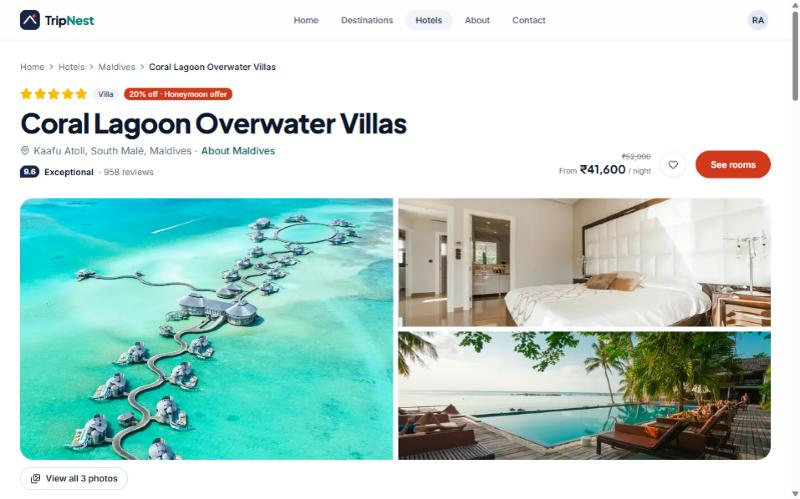
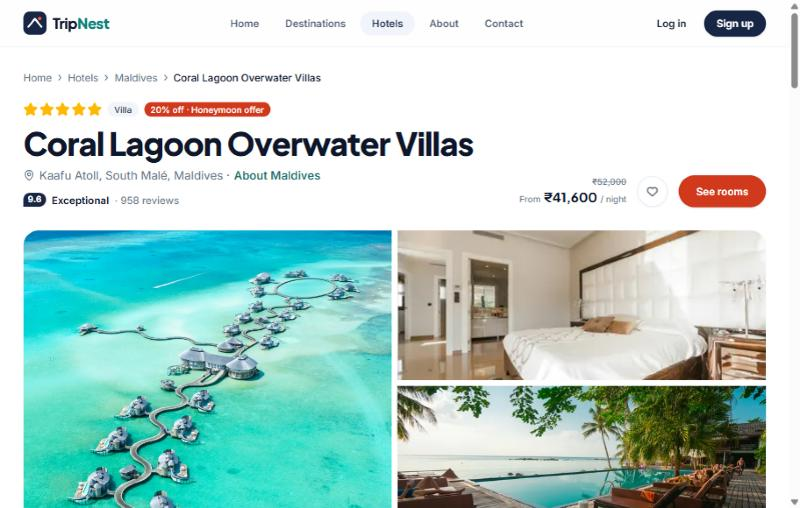
docs: refresh README (pages, payments, slideshow, tests, Lighthouse) and screenshots

diff --git a/README.md b/README.md
@@ -1,25 +1,32 @@
 # TripNest — Travel Booking Platform
 
-A full-stack hotel booking platform built as a portfolio project: search and compare hotels, choose a room, complete a
-**demo** booking, manage your trips, and run the whole thing from an admin dashboard.
+A full-stack hotel booking platform built as a portfolio project: search and compare hotels, choose a room, pay in
+**Razorpay test mode**, manage your trips, and run the whole thing from an admin dashboard.
 
-**Live demo:** <https://tripnest-travel-booking-platform.vercel.app>
+**Live demo:** <https://tripnest-travel-booking-platform.vercel.app> ·
+**Source:** <https://github.com/rojanaugustine999/tripnest-travel-booking-platform>
 
-> **Demo project.** All hotels, prices and reviews are fictional sample data, and bookings are demonstrations only.
-> **No real money is taken and no real hotel is contacted** (optional Razorpay _test-mode_ payments are described in
+> **Demo project.** All hotels, prices and reviews are fictional sample data. **No real money is ever taken and no real
+> hotel is contacted.** Payments use Razorpay's _test mode_ only (the app refuses live keys; see
 > [docs/PAYMENTS.md](docs/PAYMENTS.md)). Photos are from Unsplash.
 
-|                                                        |                                                   |
-| ------------------------------------------------------ | ------------------------------------------------- |
-| ![Home page](docs/screenshots/home.jpg)                | ![Hotel search](docs/screenshots/hotels.jpg)      |
-| ![Hotel details](docs/screenshots/hotel-details.jpg)   | ![User dashboard](docs/screenshots/dashboard.jpg) |
-| ![Admin overview](docs/screenshots/admin-overview.jpg) |                                                   |
+|                                                                 |                                                                  |
+| --------------------------------------------------------------- | ---------------------------------------------------------------- |
+| ![Home page with the hero slideshow](docs/screenshots/home.jpg) | ![Special offers section](docs/screenshots/home-offers.jpg)      |
+| ![Hotel search with filters](docs/screenshots/hotels.jpg)       | ![Hotel details and gallery](docs/screenshots/hotel-details.jpg) |
+| ![User dashboard](docs/screenshots/dashboard.jpg)               | ![Admin overview](docs/screenshots/admin-overview.jpg)           |
+
+<p align="center">
+  <img src="docs/screenshots/home-mobile.jpg" alt="Home page on a phone" width="260" /><br />
+  <sub>Responsive: the same pages on a 390 px phone screen.</sub>
+</p>
 
 ## Objectives
 
-- Build a realistic, production-style booking platform end to end: public site, accounts, bookings and administration.
-- Keep it **secure by design**: Row Level Security on every table, server-side validation and authorization, no secrets
-  in the browser.
+- Build a realistic, production-style booking platform end to end: public site, accounts, bookings, payments and
+  administration.
+- Keep it **secure by design**: Row Level Security on every table, server-side validation and authorization, payment
+  signatures verified inside the database, no secrets in the browser.
 - Practise professional habits: typed code, small features, tests for the risky parts, documentation, a phase-by-phase
   history (see [docs/ROADMAP.md](docs/ROADMAP.md)).
 
@@ -27,37 +34,53 @@ A full-stack hotel booking platform built as a portfolio project: search and com
 
 **Visitors**
 
+- A landing page with an **auto-playing hero slideshow** (previous / next, dots, pause; respects "reduce motion"),
+  one-click popular destinations, a trust strip, featured hotels, special offers, testimonials and a newsletter form.
 - Destinations and hotels with search (accent-insensitive), filters (price, stars, rating, type, amenities,
   availability), sorting and pagination — all computed in one SQL function.
 - Hotel pages with gallery, amenities, policies, reviews, room comparison and live availability for chosen dates.
+- Social preview image, favicon and Apple touch icon, so shared links look right.
 
 **Signed-in users**
 
 - Registration, login, password reset (Supabase Auth), profile and password change.
 - Save hotels (no duplicates), view and remove them.
-- Demo booking: guest details → review → confirm → confirmation with a reference. The price is calculated **on the
+- Booking: guest details → review → confirm → pay → confirmation with a reference. The price is calculated **on the
   server**, availability is checked under a database lock (no overbooking), and a repeated submission cannot create
   two bookings.
-- Optional **Razorpay test-mode payment**: the booking is held for 15 minutes and confirmed only after the payment's
-  signature is verified **inside the database** (see [docs/PAYMENTS.md](docs/PAYMENTS.md)). Off by default.
-- My bookings with details, price snapshot and cancellation of future bookings.
+- **Razorpay test-mode payments** (optional, off until configured): the booking is held for 15 minutes and confirmed
+  only after the payment's signatures are verified **inside the database**. Unpaid bookings expire and release the
+  room. A "Pay now" button and a receipt are shown on the booking pages.
+- My bookings with details, price snapshot, payment receipt and cancellation of future bookings.
 
 **Administrators**
 
 - Overview with statistics and charts (demo revenue is clearly labelled).
 - Hotels (add, edit, publish, archive, images, amenities), rooms (prices, occupancy, availability), bookings
-  (filters, permitted status changes) and users (role changes, never your own).
+  (filters, permitted status changes, payment status) and users (role changes, never your own).
+
+## Pages
+
+| Area    | Pages                                                                                                      | Who can open them                   |
+| ------- | ---------------------------------------------------------------------------------------------------------- | ----------------------------------- |
+| Public  | `/` home · `/destinations` · `/destinations/[slug]` · `/hotels` · `/hotels/[slug]` · `/about` · `/contact` | Everyone                            |
+| Account | `/login` · `/register` · `/forgot-password` · `/reset-password`                                            | Everyone                            |
+| Guest   | `/dashboard` · `/bookings` · `/bookings/[reference]` · `/saved-hotels` · `/profile`                        | Signed-in users                     |
+| Booking | `/booking` (guest details, review, pay) · `/confirmation/[reference]`                                      | Signed-in users                     |
+| Admin   | `/admin` · `/admin/hotels` (+ new, edit, rooms) · `/admin/bookings` (+ details) · `/admin/users`           | Admins only (404 for everyone else) |
 
 ## Technology stack
 
-| Area       | Technology                                                                                  |
-| ---------- | ------------------------------------------------------------------------------------------- |
-| Framework  | Next.js 16 (App Router, Cache Components, Server Actions, `proxy.ts`), React 19, TypeScript |
-| Styling/UI | Tailwind CSS 4, shadcn/ui on Radix, Lucide icons, Recharts (admin charts)                   |
-| Forms      | React Hook Form + Zod (validated in the browser **and** again on the server)                |
-| Backend    | Supabase: PostgreSQL, Auth, Row Level Security, SQL functions (`@supabase/ssr`)             |
-| Tooling    | ESLint, Prettier, `tsx` scripts for security/logic checks                                   |
-| Hosting    | Vercel (see [docs/DEPLOYMENT.md](docs/DEPLOYMENT.md))                                       |
+| Area       | Technology                                                                                             |
+| ---------- | ------------------------------------------------------------------------------------------------------ |
+| Framework  | Next.js 16 (App Router, Cache Components, Server Actions, `proxy.ts`, `next/og`), React 19, TypeScript |
+| Styling/UI | Tailwind CSS 4, shadcn/ui on Radix, Lucide icons, Recharts (admin charts)                              |
+| Forms      | React Hook Form + Zod (validated in the browser **and** again on the server)                           |
+| Backend    | Supabase: PostgreSQL, Auth, Row Level Security, SQL functions (`@supabase/ssr`)                        |
+| Payments   | Razorpay Standard Checkout in **test mode**; HMAC-SHA256 signatures checked in Postgres (`pgcrypto`)   |
+| Testing    | Vitest unit tests, `tsx` scripts for logic and live-database security probes, Lighthouse               |
+| Tooling    | ESLint, Prettier                                                                                       |
+| Hosting    | Vercel (see [docs/DEPLOYMENT.md](docs/DEPLOYMENT.md))                                                  |
 
 ## Getting started
 
@@ -75,14 +98,24 @@ cp .env.example .env.local
 Follow [docs/SUPABASE_SETUP.md](docs/SUPABASE_SETUP.md). In short:
 
 1. Create a new Supabase project (leave "automatically expose new tables" **off**).
-2. Run the SQL files in `supabase/migrations/` **in order**, then `supabase/seed.sql` (sample data), using either the
-   Supabase CLI (`npm run db:push`) or the dashboard SQL Editor.
+2. Run the SQL files in `supabase/migrations/` **in order** (8 files, the last one adds payments), then
+   `supabase/seed.sql` (sample data), using either the Supabase CLI (`npm run db:push`) or the dashboard SQL Editor.
 3. Put the **Project URL** and **publishable key** in `.env.local`. Never use the secret key in the browser and never
    commit `.env.local`.
 4. Under Authentication → URL Configuration set the Site URL to `http://localhost:3000` and add
    `http://localhost:3000/**` as a redirect URL.
 
-### 2. Run it
+### 2. Environment variables
+
+| Variable                                                 | Needed?  | Purpose                                                                                      |
+| -------------------------------------------------------- | -------- | -------------------------------------------------------------------------------------------- |
+| `NEXT_PUBLIC_SUPABASE_URL`                               | Yes      | Your Supabase project URL                                                                    |
+| `NEXT_PUBLIC_SUPABASE_PUBLISHABLE_KEY`                   | Yes      | Supabase publishable key (safe in the browser; access is limited by RLS)                     |
+| `NEXT_PUBLIC_SITE_URL`                                   | Yes      | The site's own address, used for metadata and auth email links                               |
+| `RAZORPAY_KEY_ID`, `RAZORPAY_KEY_SECRET`                 | Optional | Razorpay **test** keys (`rzp_test_…`). Server only. Without them, bookings confirm instantly |
+| `NEXT_PUBLIC_CONTACT_EMAIL`, `NEXT_PUBLIC_CONTACT_PHONE` | Optional | Real contact details for the footer and contact page; hidden when empty                      |
+
+### 3. Run it
 
 ```bash
 npm run dev      # http://localhost:3000
@@ -95,6 +128,8 @@ granted from the website):
 update public.profiles set role = 'admin' where email = 'your-email@example.com';
 ```
 
+To try payments, follow [docs/PAYMENTS.md](docs/PAYMENTS.md) (about 15 minutes) and pay with Razorpay's test card.
+
 ## Scripts and testing
 
 | Script                     | Purpose                                                                         |
@@ -105,7 +140,7 @@ update public.profiles set role = 'admin' where email = 'your-email@example.com'
 | `npm run lint`             | ESLint                                                                          |
 | `npm run typecheck`        | TypeScript type-check                                                           |
 | `npm run format`           | Format with Prettier                                                            |
-| `npm test`                 | Vitest unit tests (redirect guard, prices, validators)                          |
+| `npm test`                 | Vitest unit tests (redirect guard, prices, validators, payment signatures)      |
 | `npm run test:logic`       | Check validators, price maths and the redirect guard with hostile input         |
 | `npm run db:check`         | Test the live Supabase project as a signed-out visitor (reads `.env.local`)     |
 | `npm run db:security`      | Probe the live database like an attacker (reads, writes, functions)             |
@@ -113,18 +148,28 @@ update public.profiles set role = 'admin' where email = 'your-email@example.com'
 | `npm run db:types`         | Regenerate `src/types/database.ts` from the linked project                      |
 | `npm run db:seed:generate` | Rebuild `supabase/seed.sql` from the sample data                                |
 
-Results of the full security, functionality, responsive and performance review are in
-[docs/TESTING.md](docs/TESTING.md).
+**Current results:** 24 Vitest tests, 55 logic checks and 28 database security probes all pass. A SQL self-check for
+the payment functions is in `supabase/tests/check-payments.sql`.
+
+**Lighthouse** (production build, mobile emulation): accessibility **100** on the home, hotels and hotel pages,
+best practices **96**, SEO **100**, performance **79–90** (the large Unsplash photos dominate Largest Contentful
+Paint). Full results, bugs found and fixed, and what was not verified are in [docs/TESTING.md](docs/TESTING.md).
 
 ## How it is secured
 
-- **Row Level Security** on all 13 tables with explicit per-role grants. Users only see their own profile, bookings and
-  saved hotels; only admins manage the catalogue.
-- **Bookings cannot be written from the browser.** The `create_booking`, `cancel_booking` and `admin_*` SQL functions
-  check who is calling, re-validate everything and are not executable by signed-out visitors.
+- **Row Level Security** on all 14 tables with explicit per-role grants. Users only see their own profile, bookings,
+  payments and saved hotels; only admins manage the catalogue.
+- **Bookings cannot be written from the browser.** The `create_booking`, `cancel_booking`, `confirm_booking_payment`
+  and `admin_*` SQL functions check who is calling, re-validate everything and are not executable by signed-out
+  visitors.
+- **Payments:** the server creates the Razorpay order from the price stored in the database. A booking is confirmed
+  only when Postgres itself verifies Razorpay's signature **and** a binding token tying that order to one booking and
+  one amount, using a secret that never reaches the browser. A forged or replayed call is refused. Only `rzp_test_`
+  keys are accepted.
 - **Server-side authorization:** `requireUser()` / `requireAdmin()` and every Server Action check the verified session
   and the role stored in the database; admin pages return 404 to everyone else.
-- **Headers:** CSP, `X-Frame-Options`, `nosniff`, referrer and permissions policies, HSTS.
+- **Headers:** CSP (allowing only Supabase, Unsplash and Razorpay), `X-Frame-Options`, `nosniff`, referrer and
+  permissions policies, HSTS.
 - **Secrets:** only `.env.example` is committed. The Supabase secret key is not used by the app at all.
 
 ## Project structure
@@ -136,28 +181,44 @@ src/
 │  ├─ (auth)/        login, register, password reset
 │  ├─ (user)/        dashboard, bookings, saved hotels, profile
 │  ├─ booking/       booking flow          confirmation/  booking confirmation
-│  └─ admin/         overview, hotels, rooms, bookings, users
+│  ├─ admin/         overview, hotels, rooms, bookings, users
+│  └─ icon / apple-icon / opengraph-image   favicon and social preview, generated at build time
 ├─ components/       ui/ (shadcn), common/ (shared pieces), layout/ (navbar, footer)
-├─ features/         destinations, hotels, rooms, bookings, saved-hotels, profile, auth, admin, marketing
-├─ lib/              supabase/ clients, auth/ session helpers, validations/, utils/
+├─ features/         destinations, hotels, rooms, bookings, payments, saved-hotels, profile, auth, admin, marketing
+├─ lib/              supabase/ clients, auth/ session helpers, payments/ (Razorpay), validations/, utils/
 ├─ proxy.ts          session refresh + route protection
 └─ types/            domain types and database.ts (generated from the live schema)
-supabase/            migrations/ (schema, RLS, SQL functions), seed.sql (sample data)
+supabase/            migrations/ (schema, RLS, SQL functions, payments), seed.sql, tests/ (SQL self-check)
+tests/               Vitest unit tests
 scripts/             seed generator, db:check, db:security, test:logic
-docs/                roadmap, Supabase setup, testing report, deployment guide, master instructions
+docs/                roadmap, Supabase setup, payments, testing report, deployment guide, screenshots
 ```
+
+## Documentation
+
+| Document                                         | What it covers                                                    |
+| ------------------------------------------------ | ----------------------------------------------------------------- |
+| [docs/SUPABASE_SETUP.md](docs/SUPABASE_SETUP.md) | Creating the database, migrations, auth URLs, custom email (SMTP) |
+| [docs/PAYMENTS.md](docs/PAYMENTS.md)             | How the Razorpay test payments work and how to switch them on     |
+| [docs/DEPLOYMENT.md](docs/DEPLOYMENT.md)         | GitHub and Vercel steps, environment variables, troubleshooting   |
+| [docs/TESTING.md](docs/TESTING.md)               | Security, functionality, responsive and Lighthouse results        |
+| [docs/ROADMAP.md](docs/ROADMAP.md)               | The 12 build phases and what each delivered                       |
 
 ## Deployment
 
-Step-by-step instructions for GitHub and Vercel, including the Supabase settings you must change for the live site,
-are in [docs/DEPLOYMENT.md](docs/DEPLOYMENT.md).
+The site is deployed on Vercel and rebuilds on every push to `main`. Step-by-step instructions for GitHub and Vercel,
+including the Supabase settings you must change for the live site, are in [docs/DEPLOYMENT.md](docs/DEPLOYMENT.md).
 
 ## Known limitations
 
-- Real payments, real hotel inventory and custom emails are **not** implemented (it is a demo; Razorpay is test mode only). Supabase's built-in email service
-  sends 2 emails per hour; use your own SMTP for more.
+- Payments are **test mode only**. There is no webhook (confirmation relies on the browser returning from the
+  payment window; if it is closed at that exact moment the booking expires), and no refunds. See
+  [docs/PAYMENTS.md](docs/PAYMENTS.md).
+- Real hotel inventory and booking emails are **not** implemented. Supabase's built-in email service sends only 2 auth
+  emails per hour; use your own SMTP for more ([docs/SUPABASE_SETUP.md](docs/SUPABASE_SETUP.md)).
 - Hotel images are Unsplash links, not uploads.
 - Search results do not filter by dates (availability is shown on the hotel and booking pages).
+- Reviews and testimonials are sample data.
 - See [docs/TESTING.md](docs/TESTING.md) for everything that was and was not verified.
 
 ## Credits

diff --git a/docs/ROADMAP.md b/docs/ROADMAP.md
@@ -253,7 +253,10 @@ Storage, Row Level Security) · Git + GitHub · Vercel. No separate Express back
   rooms for 15 minutes; checkout popup, Pay now, receipts on user and admin pages; CSP for Razorpay; docs and tests.
 - **Depends on:** Phases 7 and 9.
 - **Verify:** test card confirms a booking; closed window leaves it pending then expired; forged calls are refused.
-- **Status:** Built. Needs the migration, keys and the database secret (see `docs/PAYMENTS.md`) before it switches on.
+- **Status:** Done and live. Verified end to end on the live site with Razorpay test payments (see `docs/PAYMENTS.md`).
+- **Follow-ups shipped after Phase 12:** landing page polish (demo notice, GitHub links, social preview image, favicon),
+  design pass (stronger hero search, popular links, trust strip, shorter featured row, offers band), an auto-playing hero
+  slideshow with controls, Lighthouse fixes (accessibility 100), Vitest unit tests and refreshed README screenshots.
 
 ---
 

diff --git a/docs/DEPLOYMENT.md b/docs/DEPLOYMENT.md
@@ -89,6 +89,8 @@ Open the live address and check:
 - [ ] Book a room and open the confirmation page; the booking appears in **My bookings**.
 - [ ] Save and remove a hotel with the heart button.
 - [ ] `/admin` shows **404** when signed out or signed in as a normal user.
+- [ ] If payments are switched on (see [PAYMENTS.md](PAYMENTS.md)): book a room, pay with the Razorpay test card and
+      check the confirmation page shows **Confirmed** and a "Paid in Razorpay test mode" receipt.
 - [ ] Make your account admin (SQL in [SUPABASE_SETUP.md](SUPABASE_SETUP.md)) and check the admin overview.
 - [ ] Response headers contain `Content-Security-Policy` (browser dev tools → Network → any page → Headers).
 
